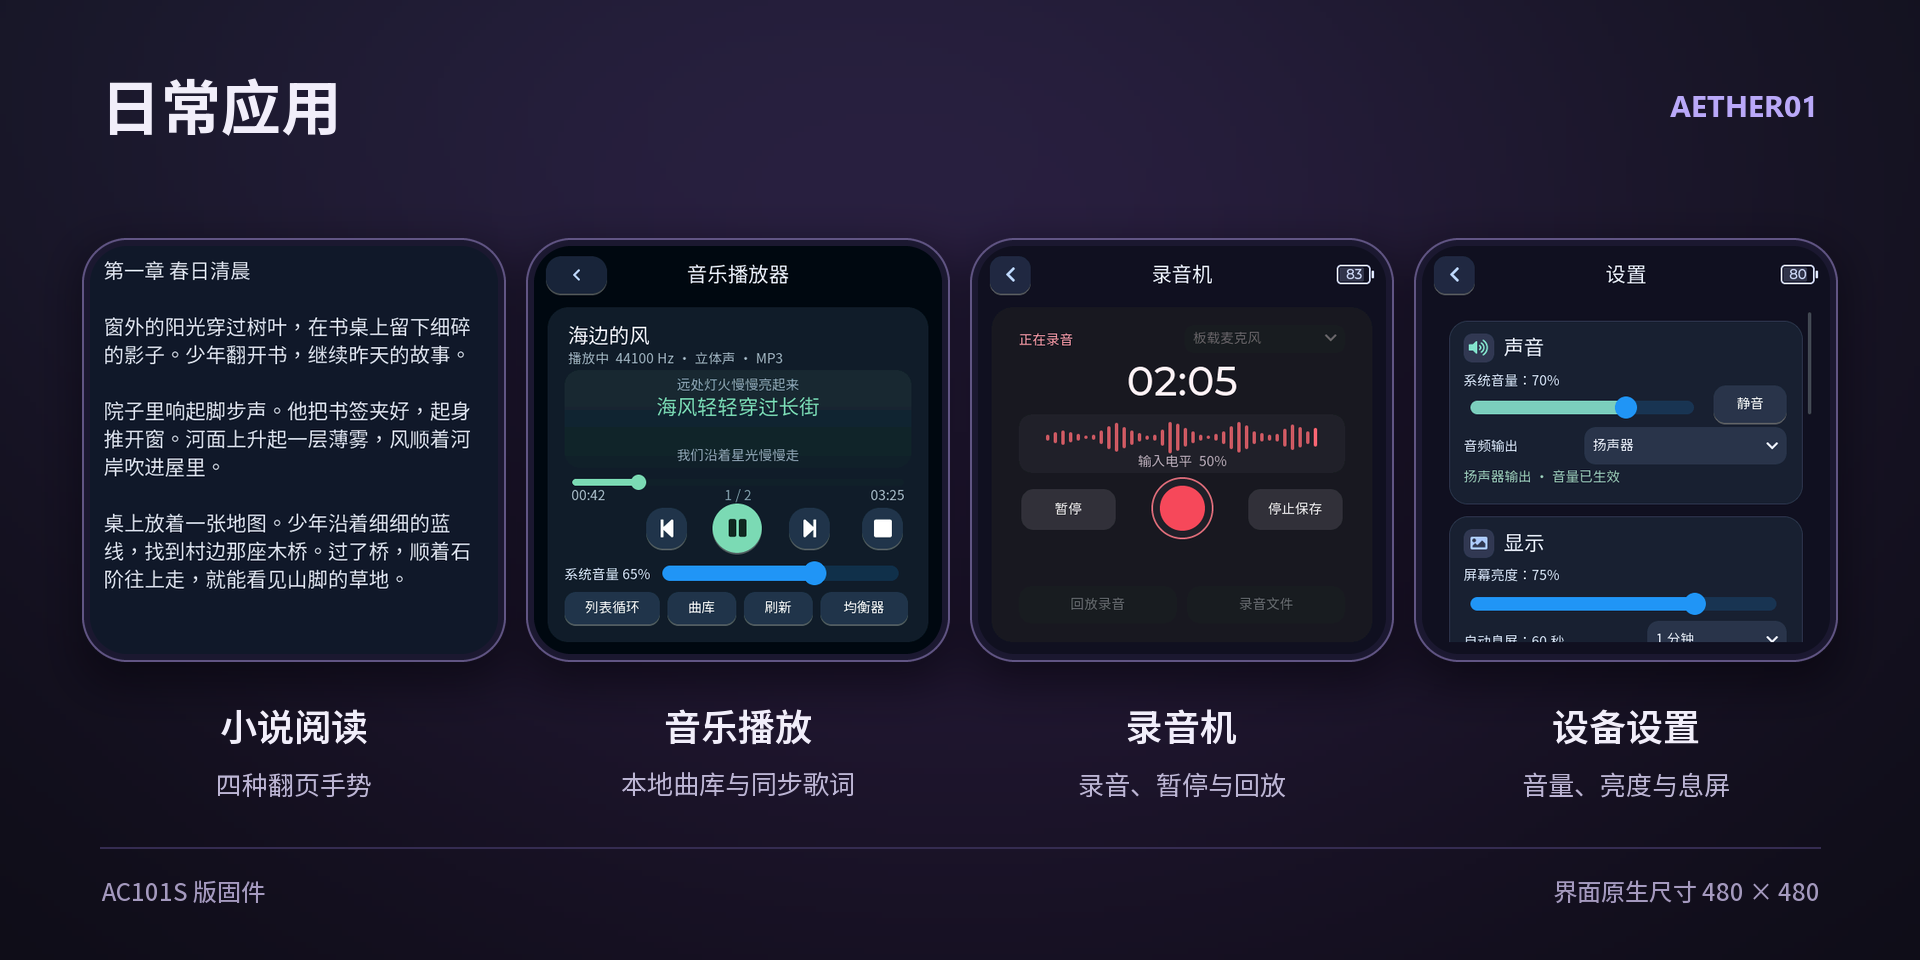
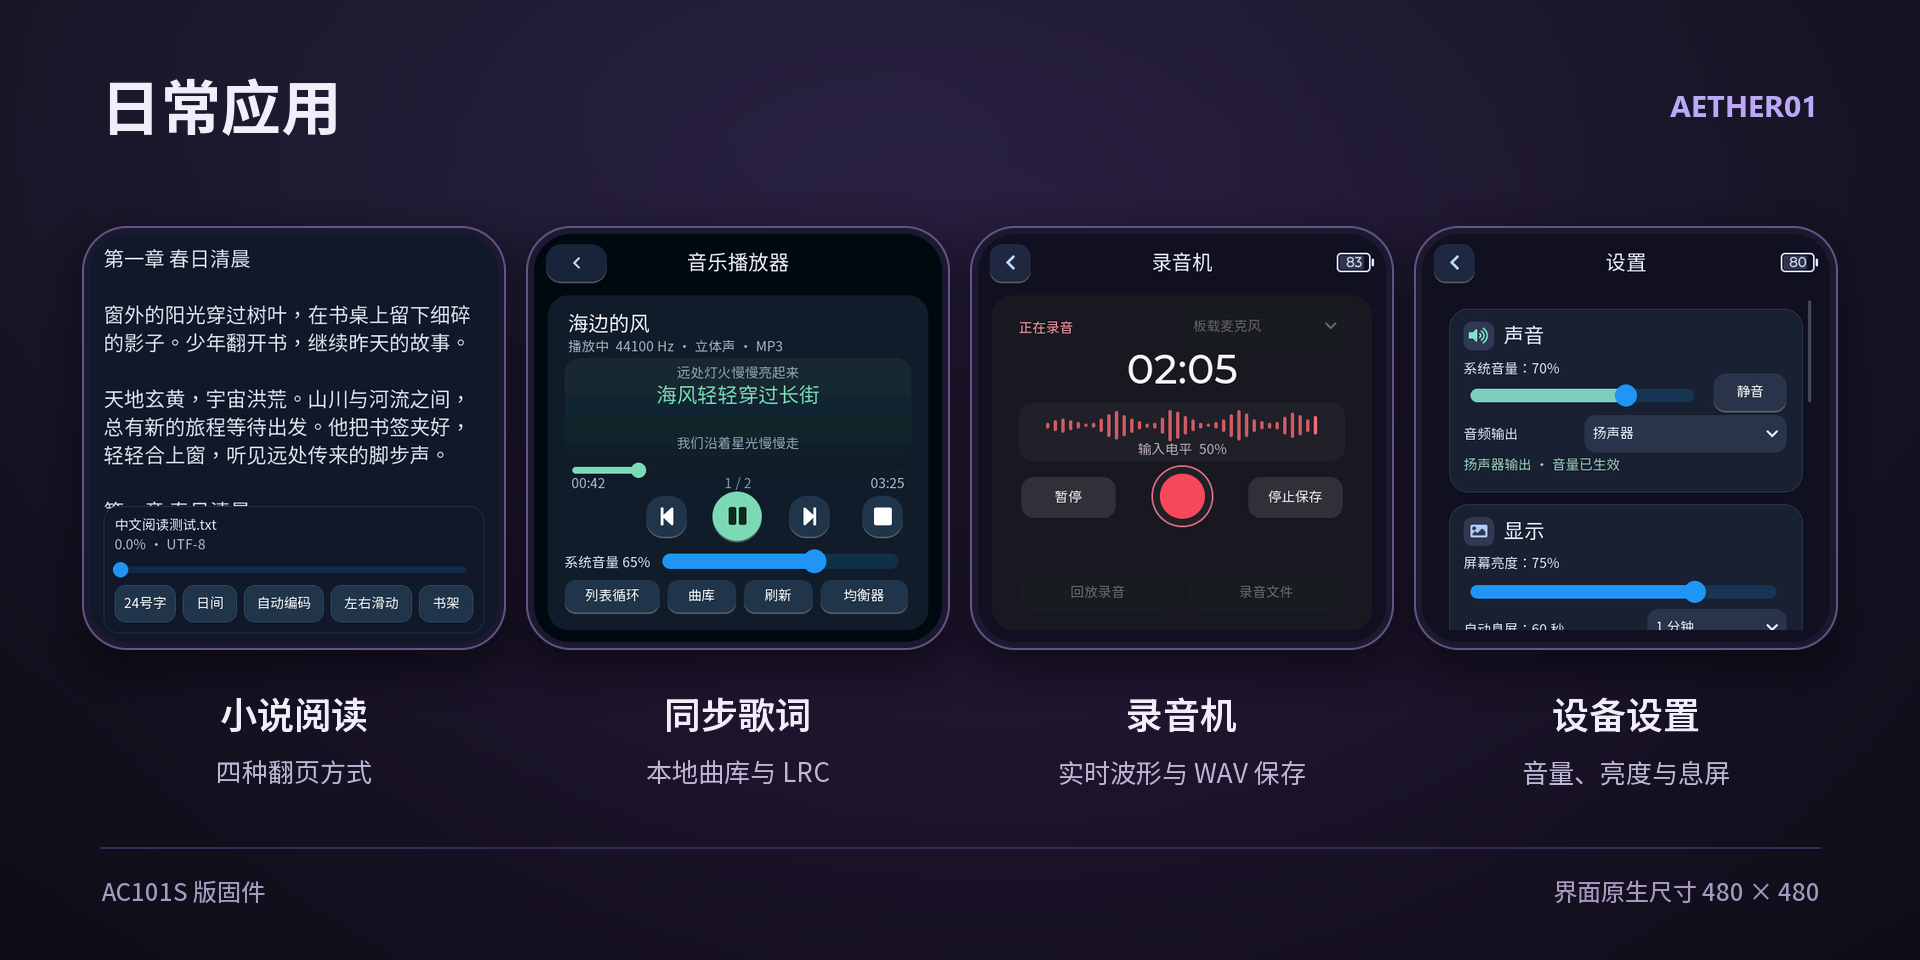
Refresh AC101S firmware interface previews

diff --git a/README.md b/README.md
@@ -8,7 +8,9 @@
 
 <img src="docs/images/01-desktop-drawer.png" alt="以太01桌面和应用抽屉" width="960">
 
-<img src="docs/images/02-daily-apps.png" alt="以太01日常应用界面" width="960">
+<img src="docs/images/02-daily-apps.png" alt="小说阅读、同步歌词、录音波形和设备设置" width="960">
+
+<img src="docs/images/06-keyboard-files.png" alt="放大的离线拼音键盘、TF 卡与 USB 文件浏览、长按文件菜单" width="960">
 
 <img src="docs/images/03-built-in-games.png" alt="以太01内置游戏界面" width="960">
 
